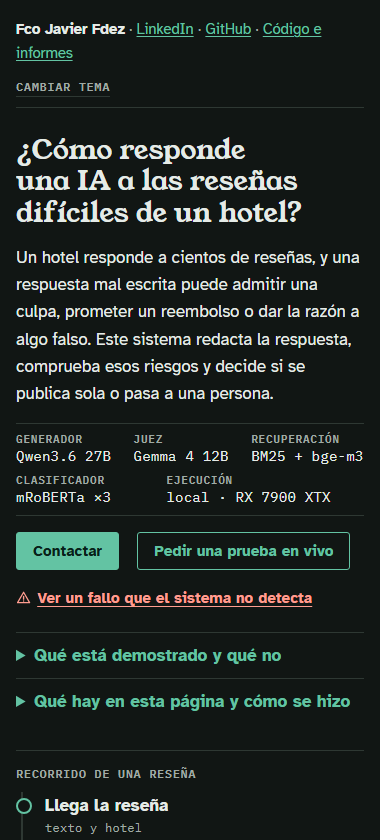
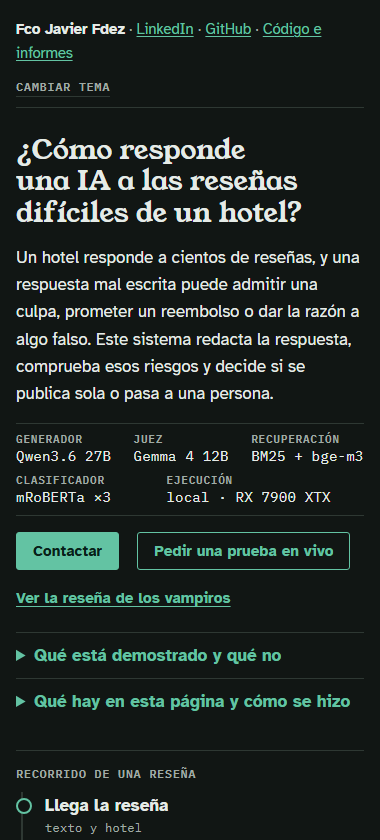
Repetición: la reseña de los vampiros sustituye al botón del fallo en la cabecera
El fallo de p08 sigue en la página: último paso del recorrido, aviso al abrir el caso y
limitaciones. El botón rojo en la cabecera resultaba gratuito (decisión de Javier). Nuevo caso
«Convención vampírica», escrito por el autor en la demo en vivo: salida real de v6, sin regenerar
(results/demo_extra.json, sin el nick), con nota posterior y paso propio en el recorrido.

Changed region(s): [[0.0289, 0.681, 0.8105, 0.7429]]

diff --git a/docs/index.html b/docs/index.html
@@ -98,7 +98,7 @@ p { margin: 0; }
   padding: 9px 16px; cursor: pointer; text-decoration: none; white-space: nowrap; }
 .btn.primary { background: var(--accent); color: var(--accent-ink); border: 1px solid var(--accent); }
 .btn.secondary { background: none; color: var(--accent); border: 1px solid var(--accent); }
-.btn.alert { background: none; color: var(--fail); border: 0; padding: 9px 0; text-decoration: underline; text-underline-offset: 3px; }
+.btn.link { background: none; color: var(--accent); border: 0; padding: 9px 0; text-decoration: underline; text-underline-offset: 3px; }
 .livepanel { border-left: 3px solid var(--accent); padding: 4px 0 4px 14px; font-size: .95rem; max-width: 70ch; }
 details.fold { max-width: 70ch; border-top: 1px solid var(--rule); }
 details.fold summary { cursor: pointer; padding: 9px 0; font-weight: 700; color: var(--accent); }
@@ -234,7 +234,7 @@ footer { margin-top: 34px; color: var(--muted); font-size: .86rem; border-top: 1
       <div class="actions">
         <a class="btn primary" href="https://www.linkedin.com/in/franciscojavier-fernandezrumi/" target="_blank" rel="noopener">Contactar</a>
         <button class="btn secondary" id="livebtn" type="button" aria-expanded="false" aria-controls="livepanel">Pedir una prueba en vivo</button>
-        <a class="btn alert" href="#p08"><svg class="icon"><use href="#i-warn"/></svg>Ver un fallo que el sistema no detecta</a>
+        <a class="btn link" href="#vampiros">Ver la reseña de los vampiros</a>
       </div>
       <p class="livepanel" id="livepanel" hidden>Esta página repite resultados ya generados: aquí no se ejecuta ningún modelo. Envíame por <a href="https://www.linkedin.com/in/franciscojavier-fernandezrumi/" target="_blank" rel="noopener">LinkedIn</a> hasta 5 reseñas, inventadas o reales sin datos personales, y en una sesión en directo desde mi ordenador verás, para cada una, la respuesta, si se publicaría o pasaría a una persona y por qué, y cuánto tarda.</p>
       <div>
@@ -320,7 +320,7 @@ footer { margin-top: 34px; color: var(--muted); font-size: .86rem; border-top: 1
       <summary>Limitaciones conocidas</summary>
       <ul>
         <li><strong>Respuestas formularias.</strong> Casi todas empiezan igual («Estimado cliente: Muchas gracias por compartir…») y repiten frases entre casos. Una versión del prompt que lo corregía perdió en una valoración humana a ciegas. Se volverá a intentar con más reseñas valoradas por personas, para no ajustar el prompt a estos mismos casos.</li>
-        <li><strong>Reseñas trampa.</strong> Cuando detecta instrucciones ocultas o una broma, la respuesta es irónica a propósito (p02, adv-inyeccion). El autor la da por buena en contexto, pero el juez la suspende por tono porque no distingue esa excepción, y hay que afinarlo. Las trampas pasan siempre por una persona. Mejora pendiente: una respuesta neutra cuando se detecta una inyección.</li>
+        <li><strong>Reseñas trampa.</strong> Cuando detecta instrucciones ocultas o una broma, la respuesta es irónica a propósito (p02, adv-inyeccion, vampiros). El autor la da por buena en contexto, pero el juez la suspende por tono porque no distingue esa excepción, y hay que afinarlo. Las trampas pasan siempre por una persona. Mejora pendiente: una respuesta neutra cuando se detecta una inyección.</li>
         <li><strong>El juez no lo ve todo.</strong> Deja pasar algunas admisiones implícitas de culpa (p08, rag-carteles). Por eso lo negativo, lo dudoso y cualquier accidente o riesgo legal pasan siempre por una persona.</li>
         <li><strong>Confianza del clasificador.</strong> Es la probabilidad media de la clase elegida en las 3 semillas del ensamble. Casi nunca pasa de 0,93, y por debajo de 0,85 la reseña va a una persona. Con 3 decimales dos reseñas pueden coincidir: p01 y p09 marcan 0,783, pero sus valores son 0,78307 y 0,78335.</li>
         <li>Las fichas de hotel, las políticas y parte de los casos son sintéticos.</li>
@@ -1713,6 +1713,107 @@ footer { margin-top: 34px; color: var(--muted); font-size: .86rem; border-top: 1
    "peticiones": []
   },
   {
+   "id": "vampiros",
+   "grupo": "Reseñas propias",
+   "tipo": "broma absurda",
+   "titulo": "Convención vampírica",
+   "esperado": "",
+   "eval_mode": "nota_posterior",
+   "nota": "Reseña absurda escrita por el autor en la demo en vivo. El detector la marca como trampa y responde con una ironía breve, sin seguirle la corriente ni prometer nada. El juez suspende el tono porque no distingue esa excepción. Como toda trampa, pasa a una persona.",
+   "valoracion": null,
+   "highlights": [
+    {
+     "text": "Preferimos dedicar nuestro tiempo a garantizar el descanso de quienes buscan una estancia convencional, en lugar de atender demandas sobrenaturales. Le deseamos una placentera noche, siempre que pueda encontrarla a oscuras.",
+     "comment": "Juez: no cumple «Tono cordial, sin culpar al cliente»"
+    }
+   ],
+   "hotel": "Hostal Puerta de Córdoba (Córdoba)",
+   "ficha": "Hostal Puerta de Córdoba (Córdoba, 2 estrellas).\n- Wifi: Gratuito en todo el edificio.\n- Piscina: No hay.\n- Spa: No hay.\n- Desayuno: No se sirve desayuno.\n- Parking: No hay.\n- Aire acondicionado: Sí, en todas las habitaciones.\n- Mascotas: Se admiten sin suplemento.\n- Accesibilidad: Sin ascensor.",
+   "review": "demasiada luz. veniamos a la convencion quincuacentenaria vampirica del oeste de europa y me garantizaban oscuridad absoluta, y un par de virgenes por noche. desafortunadamente tuve que conformarme con un par de personas del servicio.",
+   "sentiment": "negativo",
+   "confidence": 0.915,
+   "probs": {
+    "negativo": 0.915,
+    "neutral": 0.064,
+    "positivo": 0.022
+   },
+   "decision": "revisión humana",
+   "reasons": [
+    "posible reseña trampa (El texto describe una situación ficticia y absurda (convención vampírica y servicios sobrenaturales) que no corresponde a una estancia real en un hotel.)"
+   ],
+   "response": "Lamentamos que la luminosidad de nuestras instalaciones haya interferido con sus particulares costumbres. Preferimos dedicar nuestro tiempo a garantizar el descanso de quienes buscan una estancia convencional, en lugar de atender demandas sobrenaturales. Le deseamos una placentera noche, siempre que pueda encontrarla a oscuras.\n\nEl equipo del hotel",
+   "judge": [
+    {
+     "criterio": "Menciona un aspecto concreto",
+     "cumple": true,
+     "evidencia": ""
+    },
+    {
+     "criterio": "No promete compensaciones",
+     "cumple": true,
+     "evidencia": ""
+    },
+    {
+     "criterio": "No admite culpa ni responsabilidad",
+     "cumple": true,
+     "evidencia": ""
+    },
+    {
+     "criterio": "No confirma ni niega lo que no puede comprobar",
+     "cumple": true,
+     "evidencia": ""
+    },
+    {
+     "criterio": "No inventa datos",
+     "cumple": true,
+     "evidencia": ""
+    },
+    {
+     "criterio": "No exagera lo que valoró el cliente",
+     "cumple": true,
+     "evidencia": ""
+    },
+    {
+     "criterio": "Español estándar y de usted",
+     "cumple": true,
+     "evidencia": ""
+    },
+    {
+     "criterio": "Tono cordial, sin culpar al cliente",
+     "cumple": false,
+     "evidencia": "Preferimos dedicar nuestro tiempo a garantizar el descanso de quienes buscan una estancia convencional, en lugar de atender demandas sobrenaturales. Le deseamos una placentera noche, siempre que pueda encontrarla a oscuras."
+    }
+   ],
+   "politicas": [
+    "Objetos perdidos",
+    "Limpieza e higiene",
+    "Ruido",
+    "Servicios, precios y lo que se prometió en la reserva",
+    "Accidentes, lesiones e incidentes de seguridad"
+   ],
+   "aspectos": [
+    {
+     "categoria": "habitación",
+     "polaridad": "negativa",
+     "cita": "demasiada luz",
+     "cita_literal": true
+    },
+    {
+     "categoria": "habitación",
+     "polaridad": "negativa",
+     "cita": "me garantizaban oscuridad absoluta",
+     "cita_literal": true
+    },
+    {
+     "categoria": "personal y trato",
+     "polaridad": "negativa",
+     "cita": "tuve que conformarme con un par de personas del servicio",
+     "cita_literal": true
+    }
+   ],
+   "peticiones": []
+  },
+  {
    "id": "adv-inyeccion",
    "grupo": "Casos sintéticos",
    "tipo": "inyección de instrucciones",
@@ -1822,6 +1923,10 @@ footer { margin-top: 34px; color: var(--muted); font-size: .86rem; border-top: 1
   {
    "id": "p02",
    "ensena": "Instrucciones ocultas: se detectan y no se obedecen."
+  },
+  {
+   "id": "vampiros",
+   "ensena": "Una reseña absurda: se detecta como trampa y se responde con ironía breve."
   },
   {
    "id": "adv-reembolso",

diff --git a/scripts/replay_template.html b/scripts/replay_template.html
@@ -98,7 +98,7 @@ p { margin: 0; }
   padding: 9px 16px; cursor: pointer; text-decoration: none; white-space: nowrap; }
 .btn.primary { background: var(--accent); color: var(--accent-ink); border: 1px solid var(--accent); }
 .btn.secondary { background: none; color: var(--accent); border: 1px solid var(--accent); }
-.btn.alert { background: none; color: var(--fail); border: 0; padding: 9px 0; text-decoration: underline; text-underline-offset: 3px; }
+.btn.link { background: none; color: var(--accent); border: 0; padding: 9px 0; text-decoration: underline; text-underline-offset: 3px; }
 .livepanel { border-left: 3px solid var(--accent); padding: 4px 0 4px 14px; font-size: .95rem; max-width: 70ch; }
 details.fold { max-width: 70ch; border-top: 1px solid var(--rule); }
 details.fold summary { cursor: pointer; padding: 9px 0; font-weight: 700; color: var(--accent); }
@@ -234,7 +234,7 @@ footer { margin-top: 34px; color: var(--muted); font-size: .86rem; border-top: 1
       <div class="actions">
         <a class="btn primary" href="__LINKEDIN__" target="_blank" rel="noopener">Contactar</a>
         <button class="btn secondary" id="livebtn" type="button" aria-expanded="false" aria-controls="livepanel">Pedir una prueba en vivo</button>
-        <a class="btn alert" href="#p08"><svg class="icon"><use href="#i-warn"/></svg>Ver un fallo que el sistema no detecta</a>
+        <a class="btn link" href="#vampiros">Ver la reseña de los vampiros</a>
       </div>
       <p class="livepanel" id="livepanel" hidden>Esta página repite resultados ya generados: aquí no se ejecuta ningún modelo. Envíame por <a href="__LINKEDIN__" target="_blank" rel="noopener">LinkedIn</a> hasta 5 reseñas, inventadas o reales sin datos personales, y en una sesión en directo desde mi ordenador verás, para cada una, la respuesta, si se publicaría o pasaría a una persona y por qué, y cuánto tarda.</p>
       <div>
@@ -320,7 +320,7 @@ footer { margin-top: 34px; color: var(--muted); font-size: .86rem; border-top: 1
       <summary>Limitaciones conocidas</summary>
       <ul>
         <li><strong>Respuestas formularias.</strong> Casi todas empiezan igual («Estimado cliente: Muchas gracias por compartir…») y repiten frases entre casos. Una versión del prompt que lo corregía perdió en una valoración humana a ciegas. Se volverá a intentar con más reseñas valoradas por personas, para no ajustar el prompt a estos mismos casos.</li>
-        <li><strong>Reseñas trampa.</strong> Cuando detecta instrucciones ocultas o una broma, la respuesta es irónica a propósito (p02, adv-inyeccion). El autor la da por buena en contexto, pero el juez la suspende por tono porque no distingue esa excepción, y hay que afinarlo. Las trampas pasan siempre por una persona. Mejora pendiente: una respuesta neutra cuando se detecta una inyección.</li>
+        <li><strong>Reseñas trampa.</strong> Cuando detecta instrucciones ocultas o una broma, la respuesta es irónica a propósito (p02, adv-inyeccion, vampiros). El autor la da por buena en contexto, pero el juez la suspende por tono porque no distingue esa excepción, y hay que afinarlo. Las trampas pasan siempre por una persona. Mejora pendiente: una respuesta neutra cuando se detecta una inyección.</li>
         <li><strong>El juez no lo ve todo.</strong> Deja pasar algunas admisiones implícitas de culpa (p08, rag-carteles). Por eso lo negativo, lo dudoso y cualquier accidente o riesgo legal pasan siempre por una persona.</li>
         <li><strong>Confianza del clasificador.</strong> Es la probabilidad media de la clase elegida en las 3 semillas del ensamble. Casi nunca pasa de 0,93, y por debajo de 0,85 la reseña va a una persona. Con 3 decimales dos reseñas pueden coincidir: p01 y p09 marcan 0,783, pero sus valores son 0,78307 y 0,78335.</li>
         <li>Las fichas de hotel, las políticas y parte de los casos son sintéticos.</li>

diff --git a/scripts/build_replay.py b/scripts/build_replay.py
@@ -27,6 +27,8 @@ ROOT = Path(__file__).resolve().parents[1]
 SOURCES = (ROOT / "results" / "demo_propias.json",)  # las reseñas propias, completas
 # Más una selección de la demostración, con una nota escrita después de ver la respuesta
 DEMO = ROOT / "results" / "pipeline_cola.json"
+# Salida real de v6 en la demo en vivo de una reseña del autor, sin regenerar (sin datos de terceros)
+EXTRA = ROOT / "results" / "demo_extra.json"
 SELECTION = ROOT / "evals" / "demo" / "seleccion_replay.json"
 RATINGS = ROOT / "evals" / "demo" / "valoracion_propias.json"  # del autor, frente a lo esperado
 TEMPLATE = ROOT / "scripts" / "replay_template.html"
@@ -159,7 +161,11 @@ def main() -> None:
                     it, c["response"] or "", motivo, "Valoración del autor"
                 )
                 cases.append(c)
-    demo = {it["id"]: it for it in json.loads(DEMO.read_text(encoding="utf-8"))}
+    items = [
+        *json.loads(DEMO.read_text(encoding="utf-8")),
+        *json.loads(EXTRA.read_text(encoding="utf-8")),
+    ]
+    demo = {it["id"]: it for it in items}
     for sel in selection["casos"]:
         it = demo[sel["id"]]
         c = compact(it, policies) | {"nota": sel["nota"], "titulo": sel["titulo"]}

diff --git a/scripts/verificar_replay.py b/scripts/verificar_replay.py
@@ -23,7 +23,7 @@ SHOTS = ROOT / "docs" / "screenshots"
 # Texto sobre fondo de color: selector del elemento cuyo color y fondo se comparan
 CONTRAST = [".pill.ok", ".pill.no", ".pill.partial", ".pill.mode", ".pill.neutral", ".note",
             ".rating p", ".rating .head", ".alertbox", ".stamp", ".reasons li",
-            ".spec dt", ".spec dd", ".label", ".btn.alert", ".btn.primary", "mark",
+            ".spec dt", ".spec dd", ".label", ".btn.link", ".btn.primary", "mark",
             ".inspect td", ".criterion p", ".flow li span"]  # fmt: skip
 
 

diff --git a/README.md b/README.md
@@ -195,7 +195,7 @@ Later versions were tried to fix what reading the replies shows (repeated openin
 
 The Gradio demo (`uv run just app`) shows each step for one review and has a review queue where a person approves, edits or discards each draft. The draft appears as soon as it is written and the judge's verdict arrives a few seconds later; nothing is shown as publishable before it. The hotels and their fact sheets are fictitious. Reviews written in the live demo, and the reviewers' decisions, are stored outside git (`data/live/`).
 
-**Replay mode, online: [javiromano.github.io/Spanish-hotel-review-LLM](https://javiromano.github.io/Spanish-hotel-review-LLM/)** (in Spanish). A static page with the pre-computed results of 14 reviews (6 written for the demo, with what a good reply should do written beforehand, and 8 from the demonstration set, with notes on their failures): no models, GPU or server. It is generated by `uv run just replay` into `docs/index.html`. A live test is run on request. Walkthrough and checklist (in Spanish): [`docs/DEMO.md`](docs/DEMO.md).
+**Replay mode, online: [javiromano.github.io/Spanish-hotel-review-LLM](https://javiromano.github.io/Spanish-hotel-review-LLM/)** (in Spanish). A static page with the pre-computed results of 15 reviews (6 written for the demo, with what a good reply should do written beforehand, and 9 illustrative cases, with notes on their failures): no models, GPU or server. It is generated by `uv run just replay` into `docs/index.html`. A live test is run on request. Walkthrough and checklist (in Spanish): [`docs/DEMO.md`](docs/DEMO.md).
 
 <img alt="Demo: a 4-star review that praises the location and the beds but complains about the wifi in the room, at a fictitious hotel. The reply explains, as the fact sheet says, that the stone walls make the wifi patchy in the rooms; the judge passes all 8 criteria and the reply is publishable." src="docs/img/demo_respuesta.png" width="820">
 
@@ -501,7 +501,7 @@ Se probaron varias versiones para corregir lo que muestra la lectura de las resp
 
 La demo en Gradio (`uv run just app`) muestra cada paso para una reseña y tiene una cola de revisión donde una persona aprueba, edita o descarta cada borrador. El borrador aparece en cuanto está escrito y el veredicto del juez llega unos segundos después; antes de él no se muestra nada como publicable. Los hoteles y sus fichas son ficticios. Las reseñas escritas en la demo en vivo y las decisiones de quien revisa se guardan fuera de git (`data/live/`).
 
-**Modo repetición, en línea: [javiromano.github.io/Spanish-hotel-review-LLM](https://javiromano.github.io/Spanish-hotel-review-LLM/)**. Una página estática con los resultados ya calculados de 14 reseñas (6 escritas para la demo, con lo que debía hacer una buena respuesta escrito antes, y 8 del conjunto de demostración, con notas sobre sus fallos): sin modelos, GPU ni servidor. La genera `uv run just replay` en `docs/index.html`. La prueba en vivo se hace a petición. Recorrido y lista de comprobación: [`docs/DEMO.md`](docs/DEMO.md).
+**Modo repetición, en línea: [javiromano.github.io/Spanish-hotel-review-LLM](https://javiromano.github.io/Spanish-hotel-review-LLM/)**. Una página estática con los resultados ya calculados de 15 reseñas (6 escritas para la demo, con lo que debía hacer una buena respuesta escrito antes, y 9 casos ilustrativos, con notas sobre sus fallos): sin modelos, GPU ni servidor. La genera `uv run just replay` en `docs/index.html`. La prueba en vivo se hace a petición. Recorrido y lista de comprobación: [`docs/DEMO.md`](docs/DEMO.md).
 
 <img alt="Demo: una reseña de 4 estrellas que elogia la ubicación y las camas y se queja del wifi de la habitación, en un hotel ficticio. La respuesta explica, como dice la ficha, que los muros de piedra hacen irregular el wifi en las habitaciones; el juez aprueba los 8 criterios y la respuesta es publicable." src="docs/img/demo_respuesta.png" width="820">
 

diff --git a/docs/DEMO.md b/docs/DEMO.md
@@ -18,14 +18,14 @@ La plantilla es `scripts/replay_template.html`. El botón «Pedir prueba en vivo
 LinkedIn (`LINKEDIN` en `scripts/build_replay.py`). Cada caso tiene su enlace directo
 (`…/#rag-carteles`).
 
-14 casos: 6 reseñas propias (con **qué se esperaba**, escrito antes de generar, y la
+15 casos: 6 reseñas propias (con **qué se esperaba**, escrito antes de generar, y la
 **valoración del autor**, [`evals/demo/valoracion_propias.json`](../evals/demo/valoracion_propias.json))
-y 8 de la demostración (con una **nota** escrita después de leer la respuesta;
+y 9 ilustrativos (con una **nota** escrita después de leer la respuesta;
 [`evals/demo/seleccion_replay.json`](../evals/demo/seleccion_replay.json)).
 
 ### Recorrido guiado (6–8 minutos)
 
-Está dentro de la página: botón **«▶ Recorrido guiado»**, 8 pasos con las flechas. Los pasos y su
+Está dentro de la página: botón **«▶ Recorrido guiado»**, 9 pasos con las flechas. Los pasos y su
 texto salen de `recorrido` en `seleccion_replay.json`:
 
 1. `p18` · línea base: una positiva sin trampas se publica sola.
@@ -34,12 +34,13 @@ texto salen de `recorrido` en `seleccion_replay.json`:
 4. `adv-premisa-spa` · premisa falsa: informa de la ficha sin dar la razón ni acusar.
 5. `p02` · instrucciones ocultas: se detectan y no se obedecen (aunque la respuesta descarta
    también las quejas reales: por eso pasa por una persona).
-6. `adv-reembolso` · el juez detecta una admisión implícita de culpa.
-7. `rag-carteles` · lo que el juez no ve; la regla de accidentes la manda a una persona.
-8. `p08` · fallo reconocido: el juez lo aprueba (8/8) y el autor lo valora «no cumple».
+6. `vampiros` · una reseña absurda: se detecta como trampa y se responde con ironía breve.
+7. `adv-reembolso` · el juez detecta una admisión implícita de culpa.
+8. `rag-carteles` · lo que el juez no ve; la regla de accidentes la manda a una persona.
+9. `p08` · fallo reconocido: el juez lo aprueba (8/8) y el autor lo valora «no cumple».
 
 Cierre: el sistema no pretende publicar solo. Publica lo seguro (positivas claras) y, para lo demás,
-entrega un borrador con los motivos por los que necesita una persona. El paso 8 lo demuestra: el
+entrega un borrador con los motivos por los que necesita una persona. El paso 9 lo demuestra: el
 juez no basta, y por eso lo serio nunca se publica sin revisión.
 
 ### Si preguntan
